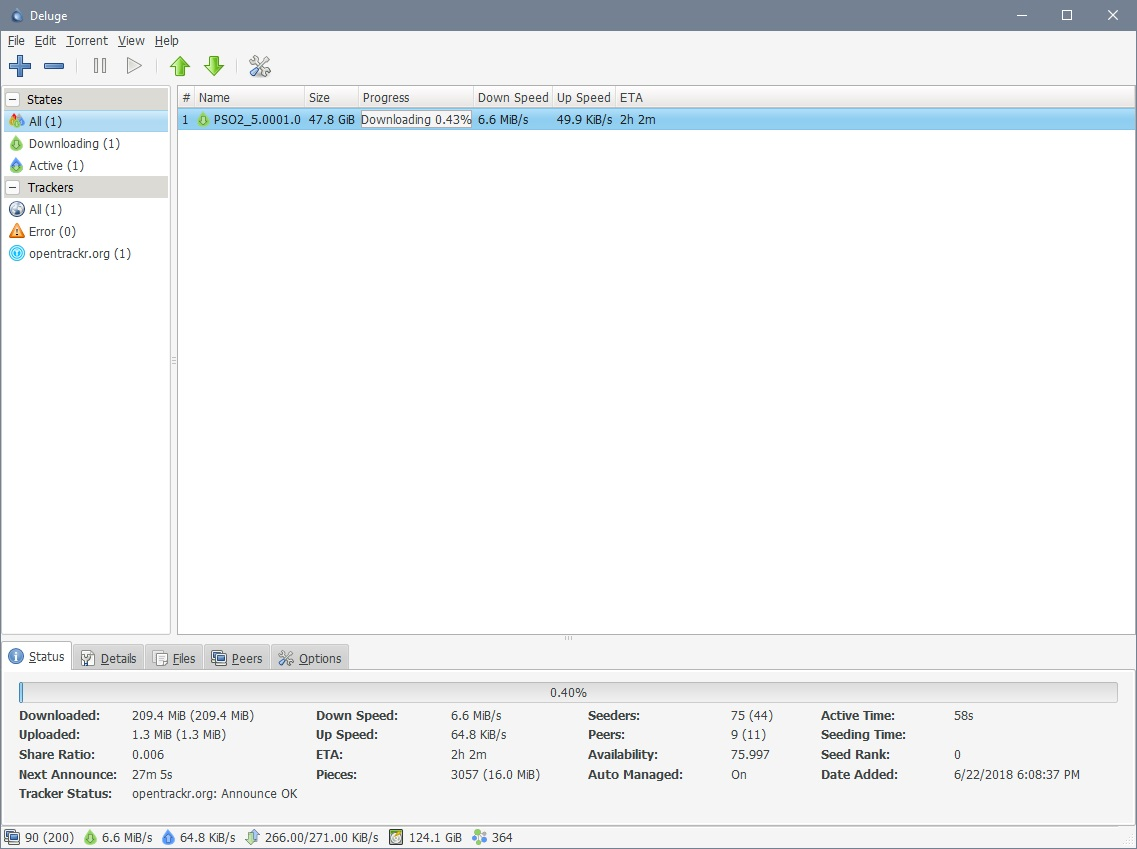
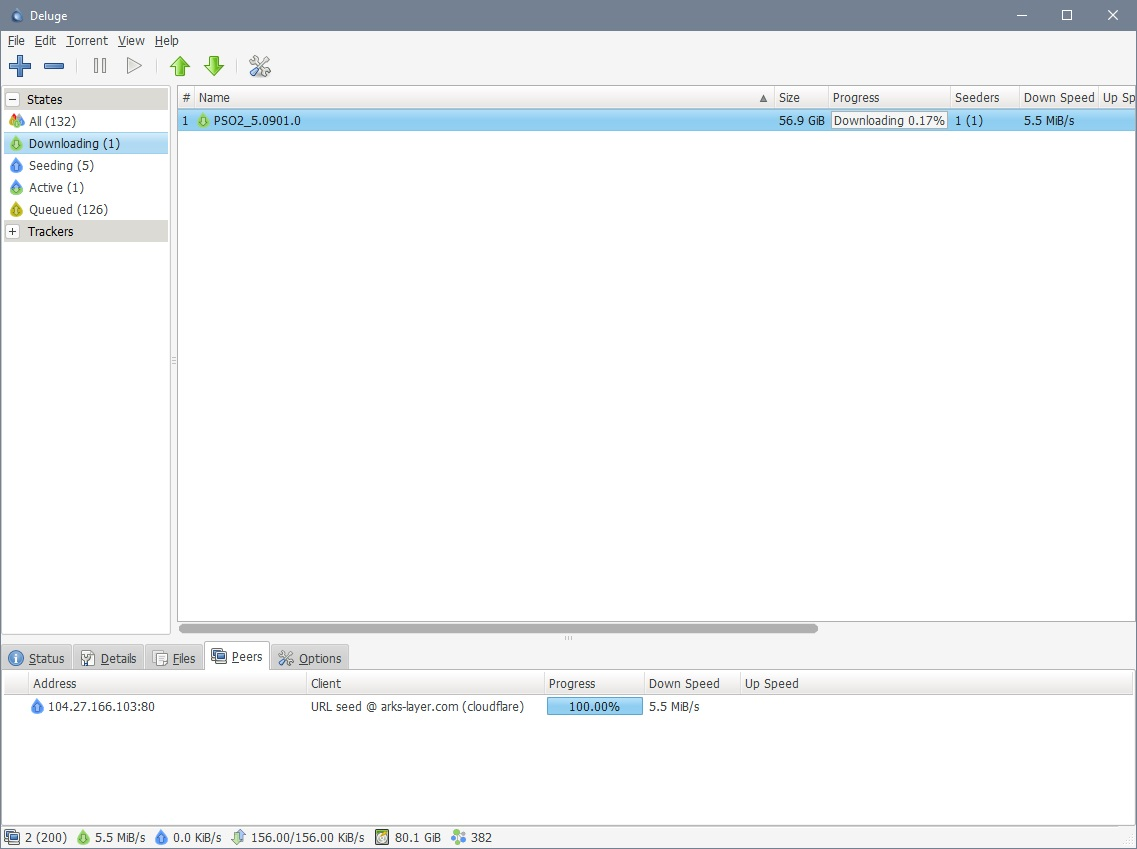
revamp for v4

diff --git a/index.html b/index.html
@@ -105,6 +105,54 @@
 							only focus on 2 of them.
 						</p>
 						<p>
+							Please note that your system is capable of installating PSO2. You can do this by checking your system
+							requirements against the minimum requirements below.
+						</p>
+						<table class="table table-bordered">
+							<tr>
+								<th scope="row">OS: </th>
+								<td>Windows 7/8.1/10 32bit or 64bit recommended</td>
+							</tr>
+							<tr>
+								<th scope="row">Processor: </th>
+								<td>Intel Core 2 Duo E6300 or better</td>
+							</tr>
+							<tr>
+								<th scope="row">Memory: </th>
+								<td>2 GB RAM or higher</td>
+							</tr>
+							<tr>
+								<th scope="row">Storage: </th>
+								<td>60 GB or higher (Formatted NTFS)</td>
+							</tr>
+							<tr>
+								<th scope="row">Display: </th>
+								<td>1280x720 or higher</td>
+							</tr>
+							<tr>
+								<th scope="row">Graphics: </th>
+								<td>NVIDIA GeForce 7800 GT or better<br>
+									AMD RADEON HD 2900XT or better<br>
+									Intel HD Graphics 4000 or better
+								</td>
+							</tr>
+							<tr>
+								<th scope="row">Direct X: </th>
+								<td>Direct X 9.0c</td>
+							</tr>
+							<tr>
+								<th scope="row">Sound Card: </th>
+								<td>Direct X compatible sound card</td>
+							</tr>
+							<tr>
+								<th scope="row">Additional notes: </th>
+								<td>
+									A high speed broadband connection is required.<br>
+									Storage and graphics requirements will change without notice.
+								</td>
+							</tr>
+						</table>
+						<p>
 							<h3 id="methods" data-toc-skip>Various Methods of Installing PSO2</h3>
 							<table class="table table-bordered table-striped table-hover" width="100%">
 								<thead>
@@ -183,10 +231,10 @@
 							Note: The torrent downloads the setup installation files and not the actual game!
 						</div>
 						<div class="alert alert-warning" role="alert">
-							Note: Ensure that you have at least 120GB of space free.
+							Note: Ensure that you have at least 140GB of space free.
 						</div>
 						<div class="alert alert-danger" role="alert">
-							Both PSO2 and the setup files are over 50GB each.
+							Both PSO2 and the setup files are over 54GB each.
 						</div>
 						<figure class="figure">
 							<img src="images/deluge-add-torrent.jpg" class="img-resposive figure-img img-fluid" alt="Opening the .torrent file inside of Deluge.">
@@ -218,26 +266,29 @@
 							<figcaption class="figure-caption">Torrent has finished downloading.</figcaption>
 						</figure>
 						<p>
-							In Deluge, right-click the torrent named "PSO2_5.0001.0" and click on "Open Folder".
+							In Deluge, right-click the torrent named "PSO2_5.0901.0" and click on "Open Folder".
 							Other clients can allow you to open the torrent's download location by double-clicking.
-							Inside, you'll see a file named "PSO2E5JP_SETUPEN.exe" followed by a bunch of other files.
+							Inside, you'll see a file named "PSO2_EP5_SETUP_8_31_2018.part01.exe" followed by a bunch of other rar files.
 							You will want to open the exe file as administrator.
 						</p>
 						<figure class="figure">
 							<img src="images/folder-installation-folder.jpg" class="img-resposive figure-img img-fluid" alt="Folder">
 						</figure>
+						<div class="alert alert-warning" role="alert">
+							The setup may take a while to load, please do not panic!
+						</div>
 						<p>
-							Upon running the installation setup, select your preferred language to run the setup on and click on "OK".
+							Upon running the installation setup, please read the agreement terms and click on "Agree" to proceed.
 						</p>
 						<figure class="figure">
-							<img src="images/setup-lang.jpg" class="img-resposive figure-img img-fluid" alt="Folder">
+							<img src="images/setup-agree.jpg" class="img-resposive figure-img img-fluid" alt="Folder">
 						</figure>
-						<figure>
-							<img src="images/setup-installation-1.jpg" class="img-resposive figure-img img-fluid" alt="Folder">
-						</figure>
+						<div class="alert alert-danger" role="alert">
+							Clicking "Decline" will close the setup.
+						</div>
 						<p>
-							Click on "Next" on the next following setup buttons until you've reached where to install the game.
-							Keep note of where you are installing PSO2, you will need it later.
+							You will now proceed to the installation section. By clicking on "Browse", you can choose where you
+							wish to install the game. Once you've selected where you want to install to, click on "Install".
 						</p>
 						<div class="alert alert-danger" role="alert">
 							DO NOT INSTALL PSO2 IN YOUR DOCUMENTS FOLDER, THE DOWNLOADS FOLDER OR ON THE DESKTOP. WINDOWS 7 AND ABOVE
@@ -248,23 +299,22 @@
 							THAT IS FORMATTED TO FAT32, DUE TO FILE SIZE RESTRICTIONS.
 						</div>
 						<figure>
+							<img src="images/setup-installation-1.jpg" class="img-resposive figure-img img-fluid" alt="Folder">
+						</figure>
+						<p>
+							This will now proceed to install the game. If you need to pause the installation, you can click on
+							"Pause". This will halt the installation temporarily, but you cannot resume where you left off if
+							you close the setup. Click on "Continue" to resume the setup, if you have paused it.
+						</p>
+						<figure>
 							<img src="images/setup-installation-2.jpg" class="img-resposive figure-img img-fluid" alt="Folder">
 						</figure>
 						<p>
-							Click on "Install" to begin the installation.
+							Once the installation has finished, the PSO2 Tweaker will launch.
 						</p>
-						<figure>
-							<img src="images/setup-installation-3.jpg" class="img-resposive figure-img img-fluid" alt="Folder">
-						</figure>
-						<p>
-							Once the installation has finished, uncheck the box here. And move on to the next step.
-						</p>
-						<figure>
-							<img src="images/setup-finish.jpg" class="img-resposive figure-img img-fluid" alt="Folder">
-						</figure>
 						<div class="alert alert-default" role="alert">
-							This concludes this section of the guide. You will now need to update using the PSO2 Tweaker. 
-							Click <a href="#tweakersetupA">here</a> to skip to the Tweaker Setup section of this guide.
+							This concludes this section of the guide. 
+							Click <a href="#plugins">here</a> to skip to the Tweaker plugin setup section of this guide.
 						</div>
 					</section>
 				</div>
